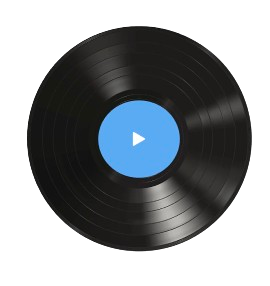
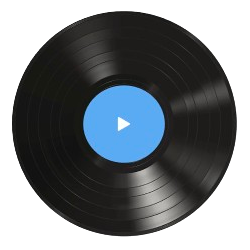
Added gray forward and back button to slideshow in top artist slide

diff --git a/templates/topArtistAndSongs.html b/templates/topArtistAndSongs.html
@@ -21,11 +21,27 @@
 
         body {
             font-family: 'Notable', sans-serif;
-            background-image: url("{% static 'topArtist/background.png' %}");
+            /*background-image: url("{% static 'topArtist/background.png' %}");*/
+            background-color: #FCF8F1;
             background-repeat: no-repeat;
             background-size: cover;
             background-position: center top;
             padding-top: 100px;
+            overflow: hidden;
+
+        }
+
+        .top-corner-rainbow {
+            position: absolute;
+            top: -180px;
+            left: -250px
+        }
+
+        .bottom-corner-rainbow {
+            transform: rotate(180deg);
+            position: absolute;
+            bottom: -250px;
+            right: -275px
         }
 
         /* Fixed Header */
@@ -69,7 +85,7 @@
 
         /* Combined Title Styling */
         .page-title {
-            font-size: 24px;
+            font-size: 20px;
             color: #D24E0D;
             margin-bottom: 20px;
             text-align: center;
@@ -136,11 +152,11 @@
         }
 
         .song {
-            /*display: flex;*/
+            display: flex;
             align-items: center;
             gap: 15px;
             background-color: #FCF8F1;
-            padding: 20px 15px;
+            padding: 40px 15px;
             width: 100%;
         }
 
@@ -154,16 +170,16 @@
 
         .vinyl-icon-blue {
             background-image: url("{% static 'topArtist/blue_record.png' %}");
-            width: 115px;
-            height: 115px;
+            width: 100px;
+            height: 100px;
             background-size: cover;
             background-position: center;
         }
 
         .vinyl-icon-yellow {
             background-image: url("{% static 'topArtist/yellow_record.png' %}");
-            width: 105px;
-            height: 105px;
+            width: 100px;
+            height: 100px;
             background-size: cover;
             background-position: center;
         }
@@ -181,6 +197,23 @@
             margin: 0;
         }
 
+        .forward-triangle-button {
+            position: absolute;
+            width: 40px;
+            height: 40px;
+            bottom: 5%;
+            right: 45%;
+        }
+
+        .backward-triangle-button {
+            position: absolute;
+            transform: rotate(180deg);
+            width: 40px;
+            height: 40px;
+            bottom: 5%;
+            right: 55%;
+        }
+
 
     </style>
 </head>
@@ -192,10 +225,13 @@
         <div class="profile">PROFILE</div>
     </div>
 
+    <img src="{% static 'topArtist/top_left_corner_rainbow.png' %}" class="top-corner-rainbow">
+
     <!-- Page Title -->
     <div class="page-title">
         <h1>Your Top Artist & Top 5 Songs</h1>
     </div>
+
 
     <!-- Content Sections for Top Artist and Top Songs -->
     <div class="content-sections">
@@ -237,21 +273,29 @@
             <!-- Right Column for Songs 2 and 4 -->
             <div class="songs-column">
                 <div class="song">
-                    <div class="vinyl-icon-yellow"></div>
                     <div class="song-details">
                         <h3>White Horse</h3>
                         <p>Chris Stapleton</p>
                     </div>
+
+                    <div class="vinyl-icon-yellow"></div>
                 </div>
                 <div class="song">
-                    <div class="vinyl-icon-red"></div>
                     <div class="song-details">
                         <h3>Mean It</h3>
                         <p>Gracie Abrams</p>
                     </div>
+                    <div class="vinyl-icon-red"></div>
                 </div>
             </div>
         </div>
     </div>
+
+    <img src="{% static 'topArtist/triangle_button.png' %}" class="forward-triangle-button">
+    <img src="{% static 'topArtist/triangle_button.png' %}" class="backward-triangle-button">
+
+    <img src="{% static 'topArtist/top_left_corner_rainbow.png' %}" class="bottom-corner-rainbow">
+
+
 </body>
 </html>

diff --git a/templates/home.html b/templates/home.html
@@ -18,7 +18,7 @@
     </div>
 
     <div class="button-wrapper">
-        <a class="view-unwrapped">VIEW UNWRAPPED</a>
+        <a href="{% url 'top_artist' %}" class="view-unwrapped">VIEW UNWRAPPED</a>
     </div>
 </div>
 {% endblock %}
